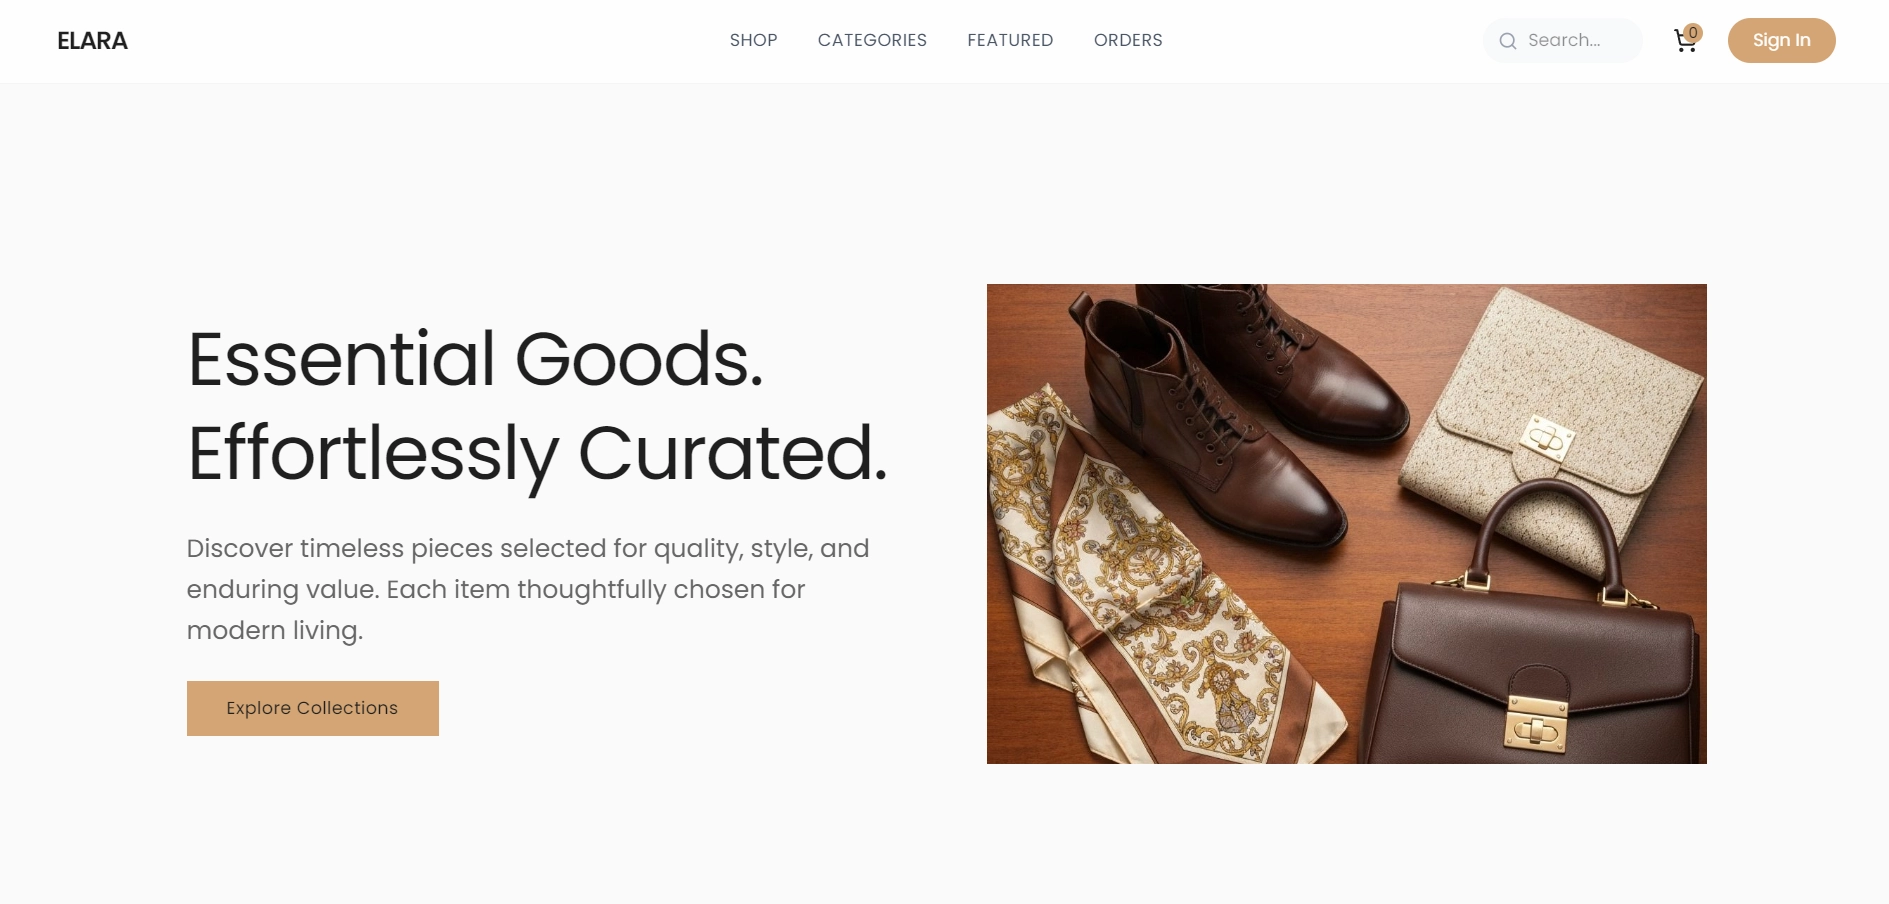
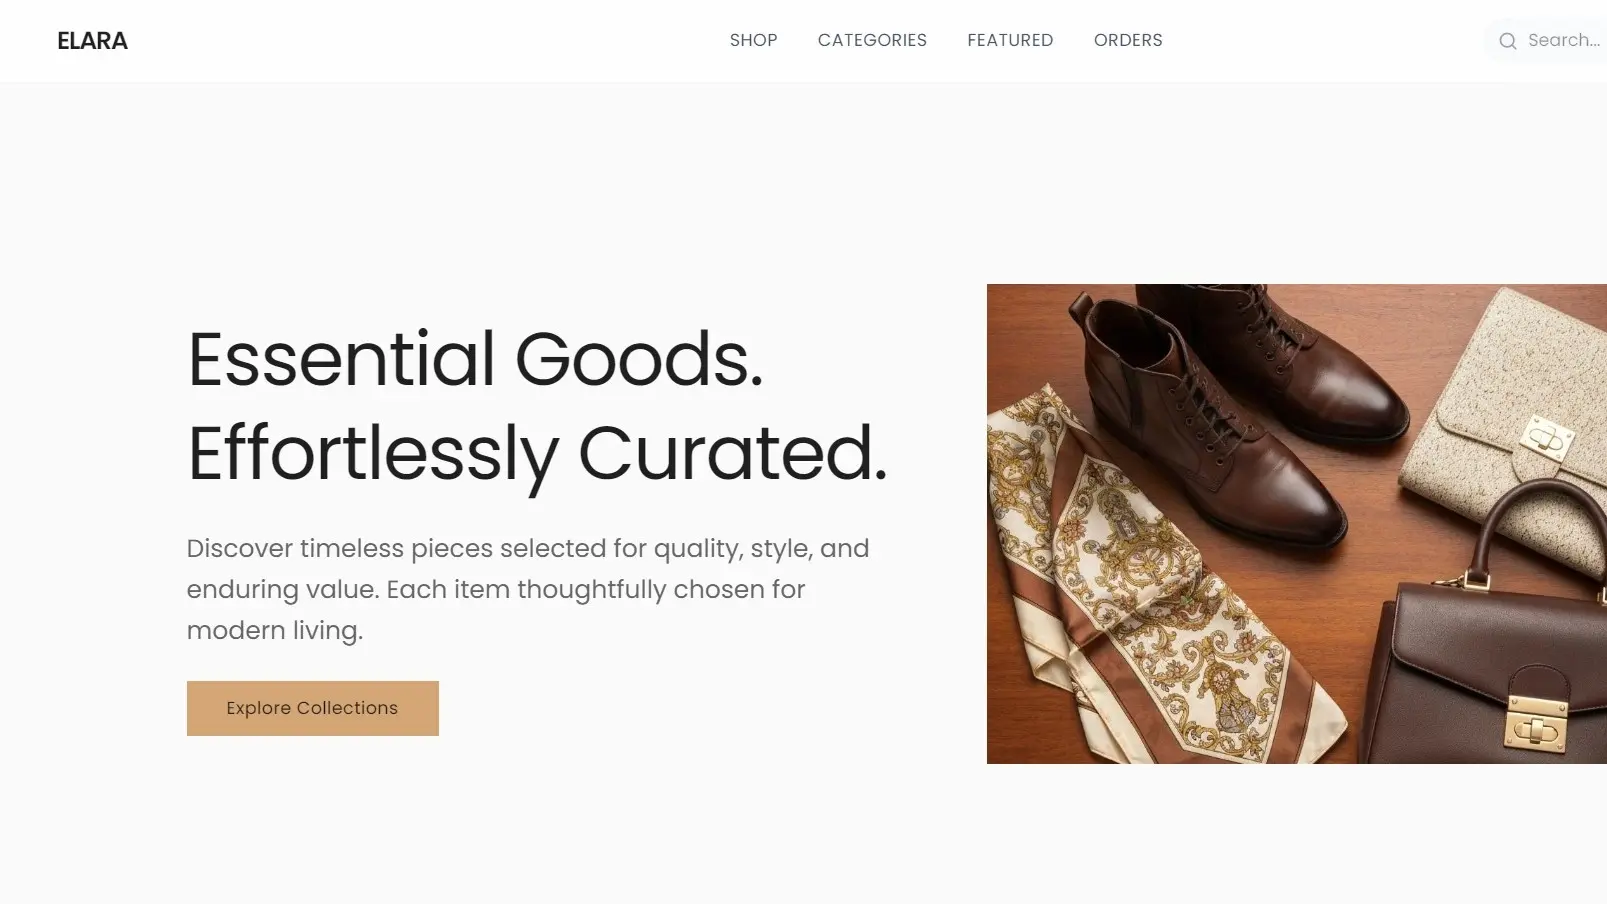
Added project TanguyPlomberie & Fix Elara img

diff --git a/components/expandable-card-grid.tsx b/components/expandable-card-grid.tsx
@@ -97,30 +97,30 @@ export default function ExpandableCardDemo() {
                       {active.description}
                     </motion.p>
                   </div>
-                    <div className="flex flex-row gap-2">
-                        <motion.a
-                            layout
-                            initial={{ opacity: 0 }}
-                            animate={{ opacity: 1 }}
-                            exit={{ opacity: 0 }}
-                            href={active.ctaLink}
-                            target="_blank"
-                            className="px-4 py-3 text-sm rounded-full font-bold bg-green-500 text-white"
-                        >
-                            {active.ctaText}
-                        </motion.a>
-                        <motion.a
-                            layout
-                            initial={{ opacity: 0 }}
-                            animate={{ opacity: 1 }}
-                            exit={{ opacity: 0 }}
-                            href={active.ctaLinkGit}
-                            target="_blank"
-                            className="px-4 py-3 text-sm rounded-full font-bold bg-black-300 text-white"
-                        >
-                            {active.ctaTextGit}
-                        </motion.a>
-                    </div>
+                  <div className="flex flex-row gap-2">
+                    <motion.a
+                      layout
+                      initial={{ opacity: 0 }}
+                      animate={{ opacity: 1 }}
+                      exit={{ opacity: 0 }}
+                      href={active.ctaLink}
+                      target="_blank"
+                      className="px-4 py-3 text-sm rounded-full font-bold bg-green-500 text-white"
+                    >
+                      {active.ctaText}
+                    </motion.a>
+                    <motion.a
+                      layout
+                      initial={{ opacity: 0 }}
+                      animate={{ opacity: 1 }}
+                      exit={{ opacity: 0 }}
+                      href={active.ctaLinkGit}
+                      target="_blank"
+                      className="px-4 py-3 text-sm rounded-full font-bold bg-black-300 text-white"
+                    >
+                      {active.ctaTextGit}
+                    </motion.a>
+                  </div>
 
                 </div>
                 <div className="pt-4 relative px-6">
@@ -216,14 +216,38 @@ export const CloseIcon = () => {
 
 const cards = [
   {
+    description: "TanguyPlomberie&Cie",
+    title: "Site vitrine artisan",
+    src: "/tanguyplomberie.webp",
+    ctaText: "Site",
+    ctaLink: "https://tanguy-plomberie.vercel.app",
+    ctaTextGit: "Github",
+    ctaLinkGit: "https://github.com/TomPARIS1/tanguy-plomberie",
+    content: () => {
+      return (
+        <div className="space-y-4">
+          <p>
+            TanguyPlomberie est une vitrine digitale haute performance conçue pour un artisan plombier-chauffagiste, développée avec Next.js 14, TypeScript et Tailwind CSS. Ce projet repense la présence en ligne des artisans locaux en s'éloignant des templates génériques pour proposer une expérience utilisateur (UX) premium et rassurante.
+          </p>
+          <p>
+            Le site répond à un défi précis : convertir l'urgence en prise de contact immédiate. L'architecture a été pensée pour minimiser les frictions : appels à l'action stratégiques, formulaires contextuels et navigation intuitive guident l'utilisateur stressé vers une solution rapide.
+          </p>
+          <p>
+            Au-delà de l'esthétique, la performance est le moteur de l'acquisition client. Le site est optimisé pour le SEO Local, avec une structure sémantique rigoureuse ciblant spécifiquement la zone d'intervention (Villegouge/Gironde). Grâce au Server-Side Rendering (SSR) de Next.js, les pages chargent instantanément, garantissant des scores Lighthouse excellents (100/100 SEO), essentiels pour capter le trafic mobile en situation d'urgence.
+          </p>
+        </div>
+      );
+    },
+  },
+  {
     description: "Portfolio",
     title: "Site actuel",
     src: "/portfolio.webp",
     ctaText: "Demo",
     ctaLink: "https://tomparis.dev",
-      ctaTextGit: "Github",
-      ctaLinkGit: "https://github.com/TomPARIS1/portfolio",
-      content: () => {
+    ctaTextGit: "Github",
+    ctaLinkGit: "https://github.com/TomPARIS1/portfolio",
+    content: () => {
       return (
         <div className="space-y-4">
           <p>
@@ -263,30 +287,30 @@ const cards = [
       );
     },
   },
-    {
-        description: "Itineris",
-        title: "Planificateur de voyage",
-        src: "/itineris.webp",
-        ctaText: "Demo",
-        ctaLink: "https://goitineris.vercel.app/",
-        ctaTextGit: "Github",
-        ctaLinkGit: "https://github.com/TomPARIS1/itineris",
-        content: () => {
-            return (
-              <div className="space-y-4">
-                <p>
-                  Itineris est une application web développée avec Next.js, TypeScript, Tailwind CSS et Prisma, connectée à une base de données Neon PostgreSQL.
-                </p>
-                <p>
-                  Elle permet de planifier et gérer ses voyages de manière intuitive : l&apos;utilisateur peut créer des voyages, ajouter des destinations, les visualiser sur une carte interactive ou un globe 3D, et suivre ses dépenses par catégorie.
-                </p>
-                <p>
-                  L&apos;app intègre également Clerk pour l&apos;authentification sécurisée et offre une interface moderne, fluide et responsive, pensée pour accompagner les voyageurs dans toute l&apos;organisation de leurs aventures.
-                </p>
-              </div>
-            );
-        },
+  {
+    description: "Itineris",
+    title: "Planificateur de voyage",
+    src: "/itineris.webp",
+    ctaText: "Demo",
+    ctaLink: "https://goitineris.vercel.app/",
+    ctaTextGit: "Github",
+    ctaLinkGit: "https://github.com/TomPARIS1/itineris",
+    content: () => {
+      return (
+        <div className="space-y-4">
+          <p>
+            Itineris est une application web développée avec Next.js, TypeScript, Tailwind CSS et Prisma, connectée à une base de données Neon PostgreSQL.
+          </p>
+          <p>
+            Elle permet de planifier et gérer ses voyages de manière intuitive : l&apos;utilisateur peut créer des voyages, ajouter des destinations, les visualiser sur une carte interactive ou un globe 3D, et suivre ses dépenses par catégorie.
+          </p>
+          <p>
+            L&apos;app intègre également Clerk pour l&apos;authentification sécurisée et offre une interface moderne, fluide et responsive, pensée pour accompagner les voyageurs dans toute l&apos;organisation de leurs aventures.
+          </p>
+        </div>
+      );
     },
+  },
   {
     description: "CVCheckr",
     title: "Analyseur de CV",
@@ -332,21 +356,5 @@ const cards = [
         </div>
       );
     },
-  },
-  {
-      description: "Application en développement",
-      title: "En cours...",
-      src: "/indev.webp",
-      ctaText: "Demo",
-      ctaLink: "https://github.com/TomPARIS1",
-      ctaTextGit: "Github",
-      ctaLinkGit: "https://github.com/TomPARIS1",
-      content: () => {
-          return (
-              <p>
-                  Lorem ipsum dolor sit amet, consectetur adipiscing elit. Ut ornare molestie nisl quis ullamcorper. Nulla ultrices lectus urna, ut fringilla lectus volutpat a. Ut quam massa, feugiat sit amet arcu in, laoreet pharetra nibh.
-              </p>
-          );
-      },
   },
 ];
